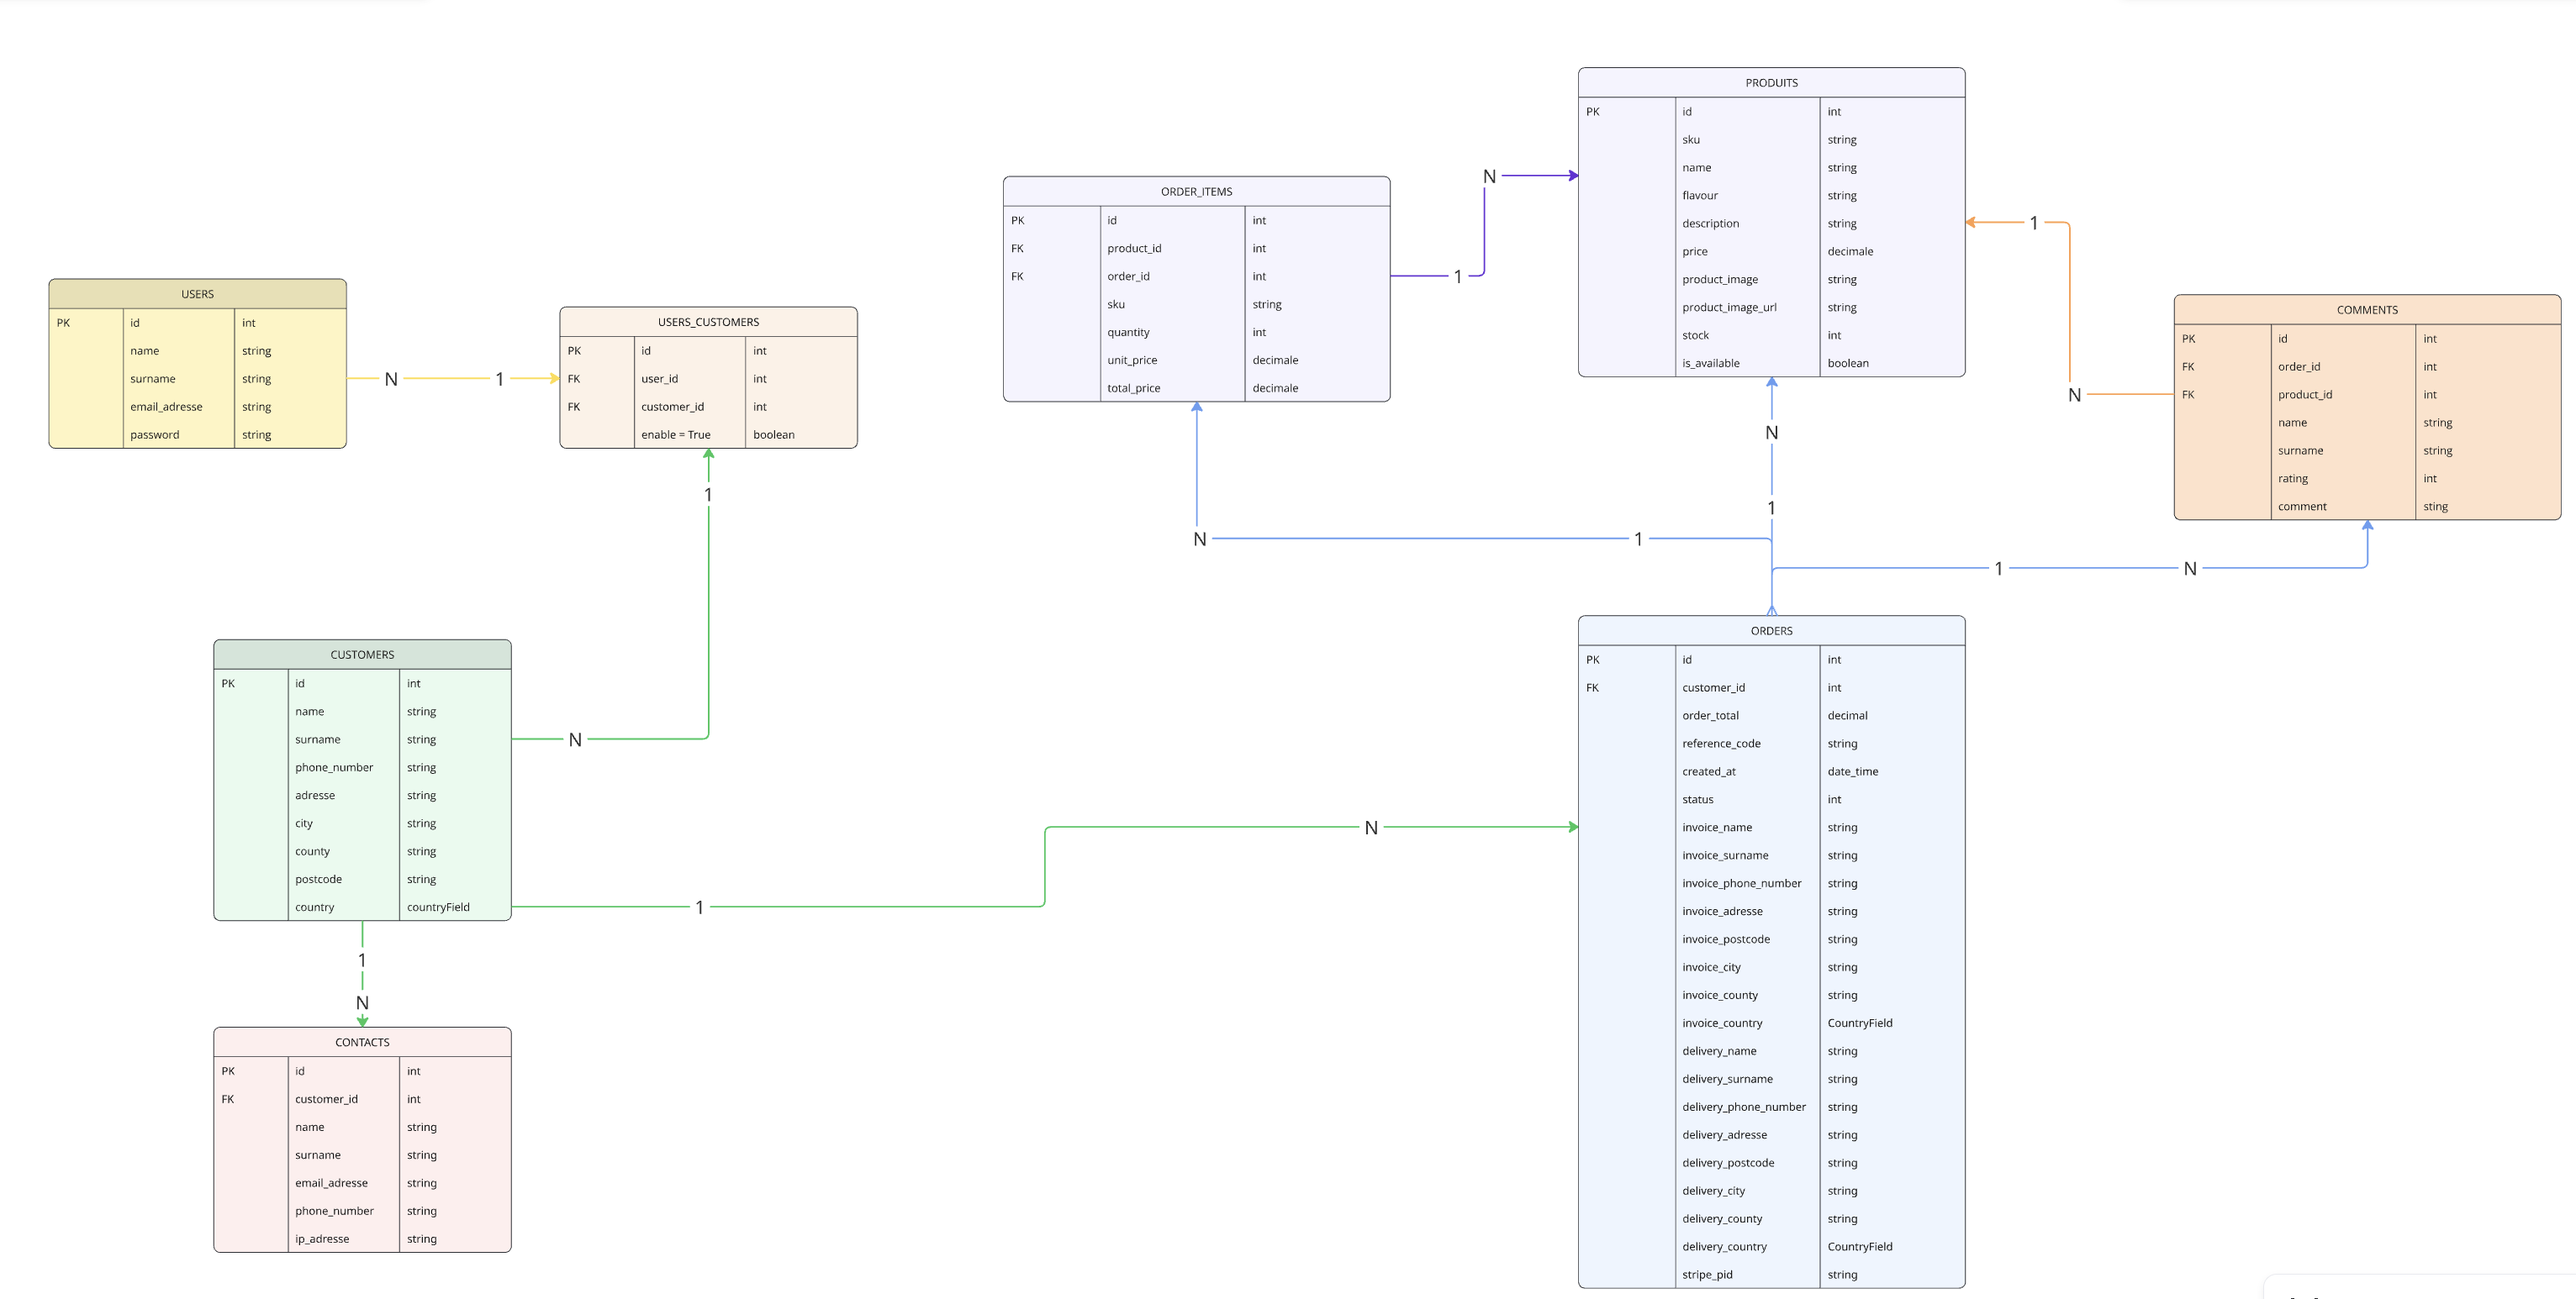
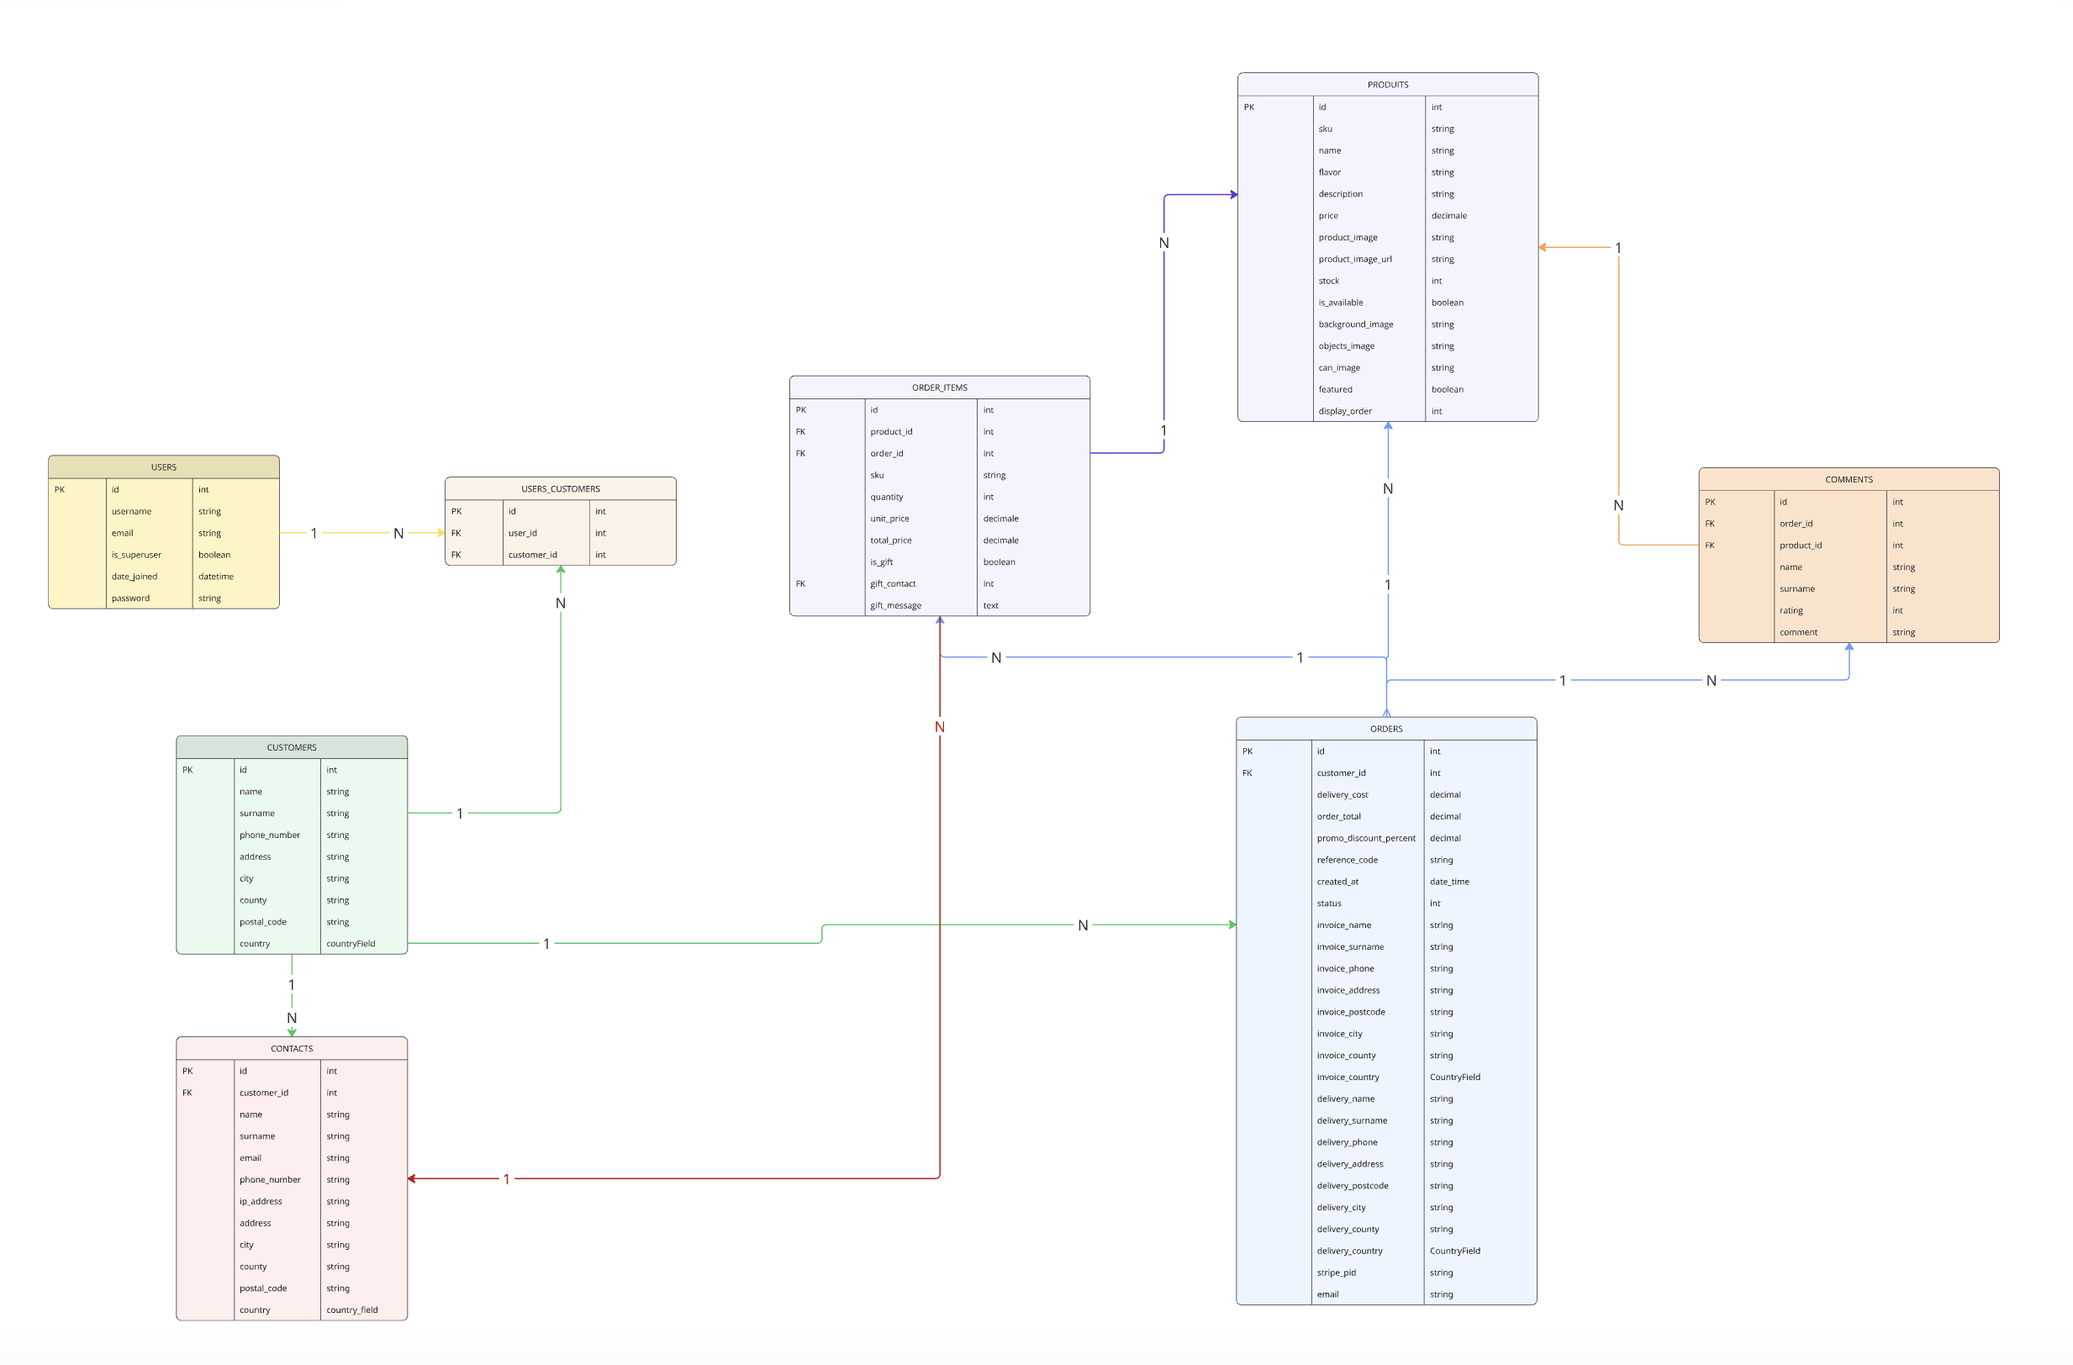
Refactor code structure and remove redundant sections for improved readability and maintainability

diff --git a/static/js/can-3d.js b/static/js/can-3d.js
@@ -1,3 +1,5 @@
+/* jshint esversion: 6 */
+
 import * as THREE from 'three';
 import {
     GLTFLoader
@@ -107,7 +109,7 @@ if (container) {
      * Renders one frame and schedules the next: swings the loaded can back
      * and forth on its Y axis, then draws the scene.
      */
-    function animate() {
+    const animate = function () {
         requestAnimationFrame(animate);
 
         if (can) {
@@ -116,20 +118,20 @@ if (container) {
         }
 
         renderer.render(scene, camera);
-    }
+    };
     animate();
 
     /**
      * Resizes the renderer and updates the camera aspect ratio to match the
      * viewer container's current dimensions.
      */
-    function handleResize() {
+    const handleResize = function () {
         const width = container.clientWidth;
         const height = container.clientHeight;
 
         camera.aspect = width / height;
         camera.updateProjectionMatrix();
         renderer.setSize(width, height);
-    }
+    };
     window.addEventListener('resize', handleResize);
 }

diff --git a/static/js/gift-page.js b/static/js/gift-page.js
@@ -1,3 +1,5 @@
+/* jshint esversion: 6 */
+
 (function() {
     // This template renders one of three states — logged out, logged in with a gift
     // already in progress, or logged in with the form — so every element below is
@@ -100,7 +102,7 @@
          * validation) when an existing contact is picked, and restores
          * them otherwise.
          */
-        function toggleNewContactFields() {
+        const toggleNewContactFields = function () {
             if (contactSelect.value) {
                 newFields.style.display = 'none';
                 newControls.forEach(function(el) {
@@ -114,7 +116,7 @@
                     }
                 });
             }
-        }
+        };
 
         contactSelect.addEventListener('change', toggleNewContactFields);
         toggleNewContactFields();

diff --git a/static/js/cart.js b/static/js/cart.js
@@ -1,3 +1,5 @@
+/* jshint esversion: 6 */
+
 // Helper functions
 
 /**
@@ -141,7 +143,8 @@ document.querySelectorAll('form[action*="/cart/remove/"]').forEach(form => {
                     window.location.reload();
                     return;
                 }
-                form.closest('.cart-item-row')?.remove();
+                const row = form.closest('.cart-item-row');
+                if (row) row.remove();
                 updateCartDisplay(data);
             })
             .catch(err => console.error('Remove failed', err));

diff --git a/static/js/checkout.js b/static/js/checkout.js
@@ -1,3 +1,6 @@
+/* jshint esversion: 8 */
+/* global Stripe */
+
 // Disable automatic scroll restoration to prevent the page from jumping to the previous scroll position on reload.
 if ('scrollRestoration' in history) {
     history.scrollRestoration = 'manual';

diff --git a/static/js/profile.js b/static/js/profile.js
@@ -1,3 +1,6 @@
+/* jshint esversion: 6 */
+/* global bootstrap */
+
 /**
  * Toggles a contact between its read-only view and its edit form.
  * @param {string} contactId - The id of the contact being toggled.

diff --git a/static/js/admin-invoice.js b/static/js/admin-invoice.js
@@ -1,3 +1,5 @@
+/* jshint esversion: 6 */
+
 /**
  * Adds a "same as delivery address" checkbox to the admin order's invoice
  * fields, copying delivery values into the invoice fields when checked and

diff --git a/static/js/country-field.js b/static/js/country-field.js
@@ -1,3 +1,5 @@
+/* jshint esversion: 6 */
+
 /**
  * Styles a country <select> like a placeholder until a real value is
  * chosen: gray text while empty, black text once a country is selected.

diff --git a/static/js/toast.js b/static/js/toast.js
@@ -1,3 +1,6 @@
+/* jshint esversion: 6 */
+/* global bootstrap */
+
 /**
  * Auto-shows every Bootstrap toast on the page once the DOM is ready,
  * auto-hiding each one after a short delay.

diff --git a/static/js/product-detail.js b/static/js/product-detail.js
@@ -1,3 +1,5 @@
+/* jshint esversion: 6 */
+
 /**
  * Wires up each quantity +/- button on the product detail page to adjust
  * the quantity input, staying within the 1-99 range.

diff --git a/static/js/add-review.js b/static/js/add-review.js
@@ -1,3 +1,5 @@
+/* jshint esversion: 6 */
+
 const stars = document.querySelectorAll('.star-btn');
 const ratingInput = document.getElementById('rating-input');
 

diff --git a/static/js/main.js b/static/js/main.js
@@ -1,3 +1,6 @@
+/* jshint esversion: 6 */
+/* global bootstrap */
+
 /**
  * Closes the responsive navbar collapse if it is currently expanded.
  */

diff --git a/README.md b/README.md
@@ -1129,10 +1129,10 @@ Stripe runs in **test mode**, so checkout can be tested end to end without a rea
 
 | Tool | Target | Result |
 |------|--------|--------|
-| [W3C HTML Validator](https://validator.w3.org/) | Each rendered page (validated from view-source) | *to run* |
-| [W3C CSS Validator (Jigsaw)](https://jigsaw.w3.org/css-validator/) | `static/css/base.css` | *to run* |
-| [JSHint](https://jshint.com/) | Files in `static/js/` | *to run* |
-| [flake8](https://flake8.pycqa.org/) / [black](https://black.readthedocs.io/) | Python source (79-char lines, `setup.cfg` + `pyproject.toml`) | *to run* |
+| [W3C HTML Validator](https://validator.w3.org/) | Each rendered page (validated from view-source) | Pass |
+| [W3C CSS Validator (Jigsaw)](https://jigsaw.w3.org/css-validator/) | `static/css/base.css` | Pass (0 errors, 17 warnings, all expected) |
+| [JSHint](https://jshint.com/) | Every file in `static/js/` (11 files) | Pass (0 warnings, 0 errors) |
+| [flake8](https://flake8.pycqa.org/) | Python source (79-char lines, config in `setup.cfg`) | Pass (0 errors) |
 
 </div>
 
@@ -1140,31 +1140,69 @@ Stripe runs in **test mode**, so checkout can be tested end to end without a rea
 <summary>HTML validation</summary>
 
 <p align="center">
-  <img src="docs/testing/validator-html.png" alt="W3C HTML validator results" style="width: 90%; max-width: 900px; height: auto;">
+  <img src="docs/testing/html-validation.png" alt="W3C HTML validator results" style="width: 90%; max-width: 900px; height: auto;">
 </p>
 </details>
 
 <details>
 <summary>CSS validation</summary>
 
+`static/css/base.css` passes the [W3C Jigsaw validator](https://jigsaw.w3.org/css-validator/) with **0 errors**.
+
 <p align="center">
-  <img src="docs/testing/validator-css.png" alt="W3C CSS validator results" style="width: 90%; max-width: 900px; height: auto;">
+  <img src="docs/testing/css-validation.png" alt="W3C CSS validator results, no errors" style="width: 90%; max-width: 900px; height: auto;">
+</p>
+
+The 17 warnings are all expected and need no change:
+
+<div align="center">
+
+| Warning | Count | Reason |
+|---|---|---|
+| Imported style sheet not checked | 1 | Jigsaw does not follow the `@import` for the Patrick Hand font |
+| CSS variables not statically checked | 10 | Jigsaw does not resolve `var(--token)` values; normal for a design-token-based stylesheet |
+| `-webkit-appearance` / `::-webkit-*-spin-button` vendor extensions | 4 | Deliberate, to normalise the quantity number input across browsers |
+| `auto` not defined for `pointer-events` | 2 | `pointer-events: auto` is valid per the CSS spec and widely supported; Jigsaw's data is out of date |
+| `clip` is deprecated | 1 | Used in the visually-hidden pattern that hides a label while keeping it in the accessibility tree; `clip` stays the most cross-browser-compatible option |
+
+</div>
+
+<p align="center">
+  <img src="docs/testing/css-warning.png" alt="W3C CSS validator warnings" style="width: 90%; max-width: 900px; height: auto;">
 </p>
 </details>
 
 <details>
 <summary>JavaScript validation</summary>
 
-<p align="center">
-  <img src="docs/testing/validator-js.png" alt="JSHint results" style="width: 90%; max-width: 900px; height: auto;">
-</p>
+Every file in `static/js/` was run through [JSHint](https://jshint.com/) and passes with **0 warnings and 0 errors**. Each file carries a `/* jshint esversion: 6 */` directive at the top (`esversion: 8` for `checkout.js`, which uses `async`/`await`), plus `/* global bootstrap */` or `/* global Stripe */` where those library globals are used.
+
+<div align="center">
+
+| File | Result |
+|------|--------|
+| `add-review.js` | <img src="docs/testing/jshint-add-review.png" alt="JSHint results for add-review.js, no warnings" width="600"> |
+| `admin-invoice.js` | <img src="docs/testing/jshint-admin.png" alt="JSHint results for admin-invoice.js, no warnings" width="600"> |
+| `can-3d.js` | <img src="docs/testing/3d-can.png" alt="JSHint results for can-3d.js, no warnings" width="600"> |
+| `cart.js` | <img src="docs/testing/jshint-cart.png" alt="JSHint results for cart.js, no warnings" width="600"> |
+| `checkout.js` | <img src="docs/testing/jshint-checkout.png" alt="JSHint results for checkout.js, no warnings" width="600"> |
+| `country-field.js` | <img src="docs/testing/jshint-countryfield.png" alt="JSHint results for country-field.js, no warnings" width="600"> |
+| `gift-page.js` | <img src="docs/testing/gift-page.png" alt="JSHint results for gift-page.js, no warnings" width="600"> |
+| `main.js` | <img src="docs/testing/jshint-main.png" alt="JSHint results for main.js, no warnings" width="600"> |
+| `product-detail.js` | <img src="docs/testing/jshint-product-detail.png" alt="JSHint results for product-detail.js, no warnings" width="600"> |
+| `profile.js` | <img src="docs/testing/jshint-profile.png" alt="JSHint results for profile.js, no warnings" width="600"> |
+| `toast.js` | <img src="docs/testing/jshint-toast.png" alt="JSHint results for toast.js, no warnings" width="600"> |
+
+</div>
 </details>
 
 <details>
 <summary>Python validation</summary>
 
+All Python source passes [flake8](https://flake8.pycqa.org/) with 0 errors (79-char lines, config in `setup.cfg`). `env.py`, `.venv/`, `__pycache__/` and the auto-generated `migrations/` are excluded in `setup.cfg`.
+
 <p align="center">
-  <img src="docs/testing/validator-python.png" alt="CI Python Linter results" style="width: 90%; max-width: 900px; height: auto;">
+  <img src="docs/testing/python-flake8.png" alt="flake8 run with no errors" style="width: 90%; max-width: 900px; height: auto;">
 </p>
 </details>
 
@@ -1174,10 +1212,10 @@ Stripe runs in **test mode**, so checkout can be tested end to end without a rea
 
 | Browser | Version | Result |
 |---------|---------|--------|
-| Chrome | | *to test* |
-| Firefox | | *to test* |
-| Safari | | *to test* |
-| Edge | | *to test* |
+| Chrome | 151 | Pass |
+| Firefox | 152 | Pass |
+| Safari | 26.6 | Pass |
+| Edge | 152 | Pass |
 
 </div>
 
